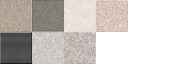
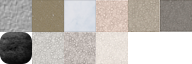
Redid Facility 1 and the artwork for Facility 1 and 2

diff --git a/Turret.js b/Turret.js
@@ -1,66 +1,63 @@
 
 var LaserTurret = me.ObjectEntity.extend({
     init: function(x, y, settings) {
-        
+
         settings.image = "turret_tiles";
         settings.spritewidth = 32;
         settings.spriteheight = 32;
-        
+
         this.parent(x, y, settings);
-        
-        // setTile(x, y, id)'s x, y are not a vector coord of tile but are tile indices
-        me.game.collisionMap.setTile(x / 32, y / 32, me.game.collisionMap.getTileId(0, 0));                
-        
+
         this.addAnimation("west", [1]);
         this.addAnimation("east", [0]);
         this.addAnimation("north", [2]);
         this.addAnimation("south", [3]);
         this.setCurrentAnimation(settings.direction);
-        
+
         var dFactorX = 0, dFactorY = 0;
         switch (settings.direction)
         {
-            case "west":                
+            case "west":
                 dFactorX = -1;
-                dFactorY = 0;                
+                dFactorY = 0;
                 break;
-            case "east":                
+            case "east":
                 dFactorX = 1;
-                dFactorY = 0;                
+                dFactorY = 0;
                 break;
-            case "north":                
+            case "north":
                 dFactorX = 0;
-                dFactorY = -1;                
+                dFactorY = -1;
                 break;
-            case "south":                
+            case "south":
                 dFactorX = 0;
-                dFactorY = 1;                
+                dFactorY = 1;
                 break;
         }
-        
+
         if (settings.speed == null)
             settings.speed = 1500;
         if (settings.damage == null)
             settings.damage = 1;
         if (settings.delay == null)
             settings.delay = fairPercentage() * randomInt(1, 10) + 500;
-        
+
         for (i = 1; me.game.collisionMap.getTile(x + (i * dFactorX * 32), y + (i * dFactorY * 32)) == null; i++)
         {
             var lb = new LaserBeam(
-                        x + (i * dFactorX * 32),
-                        y + (i * dFactorY * 32),
-                        {   // settings            
-                            name : (this.name + "laser_beam" + i),
-                            spritewidth : "32",
-                            spriteheight : "32",
-                            image : "laser_beam",
-                            orientation : 1 - Math.abs(dFactorY),
-                            speed : settings.speed,
-                            damage : settings.damage,
-                            delay : settings.delay
-                        }
-                    );
+                x + (i * dFactorX * 32),
+                y + (i * dFactorY * 32),
+                {   // settings
+                    name : (this.name + "laser_beam" + i),
+                    spritewidth : "32",
+                    spriteheight : "32",
+                    image : "laser_beam",
+                    orientation : 1 - Math.abs(dFactorY),
+                    speed : settings.speed,
+                    damage : settings.damage,
+                    delay : settings.delay
+                }
+                );
             //document.getElementById("debugInfo").innerHTML += lb.name + "<br>";
             me.game.add(lb, 9999999999);
         }
@@ -70,16 +67,16 @@ var LaserTurret = me.ObjectEntity.extend({
 
 
 var LaserBeam = me.ObjectEntity.extend({
-    
+
     isOn : 1,
     pTime : 0,
     damage : 0,
     orientation : 2,
     delay : 0,
     speed : 0,
-    
+
     init : function(x, y, settings) {
-        
+
         this.parent(x, y, settings);
         //document.getElementById("debugInfo").innerHTML += this.name + "<br>";
         this.alive = false;
@@ -89,31 +86,31 @@ var LaserBeam = me.ObjectEntity.extend({
         this.delay = settings.delay;
         this.speed = settings.speed;
         this.orientation = settings.orientation;
-        
+
         this.addAnimation(0, [4, 7]);   // vertical
         this.addAnimation(1, [5, 6]);   // horizontal
         this.addAnimation(2, [8]);  // empty;
-        
-        
+
+
         this.setCurrentAnimation(2);
         //document.getElementById("debugInfo").innerHTML += this.name + " (" + this.GUID + ")<br>";
         this.pTime = me.timer.getTime() + this.delay;
     },
-    
-    update : function() {        
+
+    update : function() {
         // onCollision override...
         if (this.alive && this.pos.x == player.pos.x && this.pos.y == player.pos.y)
         {
             //document.getElementById("debugInfo").innerHTML = "<font color=red>" + this.name + ": " + this.pos.x + " x " + this.pos.y + "<br>player: " + player.pos.x + " x " + player.pos.y + "</font><br>";
             player.setCurrentAnimation("dead");
             me.game.HUD.updateItemValue("stamina", -this.damage);
-            //document.getElementById("debugInfo").innerHTML += this.name + " (" + this.GUID + ")<font color=red>laser</font><br>";
+        //document.getElementById("debugInfo").innerHTML += this.name + " (" + this.GUID + ")<font color=red>laser</font><br>";
         }/*
         else
         {
             document.getElementById("debugInfo").innerHTML = "<font color=blue>" + this.name + "- " + this.pos.x + " x " + this.pos.y + "<br>player: " + player.pos.x + " x " + player.pos.y + "</font><br>";
-        }*/        
-        
+        }*/
+
         //document.getElementById("debugInfo").innerHTML = "<font color=red>" + (me.timer.getTime() - this.pTime) + "</font> -> " + this.speed + "</br>";
 
         if (!this.isOn) {
@@ -137,9 +134,9 @@ var LaserBeam = me.ObjectEntity.extend({
                 this.setCurrentAnimation(this.orientation);
             }
             this.pTime = me.timer.getTime();
-            
+
         }
-        
+
         this.parent(this);
         return true;
     }
@@ -149,68 +146,65 @@ var LaserBeam = me.ObjectEntity.extend({
 
 var AdvancedLaserTurret = me.ObjectEntity.extend({
     init: function(x, y, settings) {
-        
+
         settings.image = "turret_advanced_tiles";
         settings.spritewidth = 32;
         settings.spriteheight = 32;
-        
+
         this.parent(x, y, settings);
-        
-        // setTile(x, y, id)'s x, y are not a vector coord of tile but are tile indices
-        me.game.collisionMap.setTile(x / 32, y / 32, me.game.collisionMap.getTileId(0, 0));                
-        
+
         this.addAnimation("west", [1]);
         this.addAnimation("east", [0]);
         this.addAnimation("north", [2]);
         this.addAnimation("south", [3]);
         this.setCurrentAnimation(settings.direction);
-        
+
         this.laser = [];
         var dFactorX = 0, dFactorY = 0;
         switch (settings.direction)
         {
-            case "west":                
+            case "west":
                 dFactorX = -1;
-                dFactorY = 0;                
+                dFactorY = 0;
                 break;
-            case "east":                
+            case "east":
                 dFactorX = 1;
-                dFactorY = 0;                
+                dFactorY = 0;
                 break;
-            case "north":                
+            case "north":
                 dFactorX = 0;
-                dFactorY = -1;                
+                dFactorY = -1;
                 break;
-            case "south":                
+            case "south":
                 dFactorX = 0;
-                dFactorY = 1;                
+                dFactorY = 1;
                 break;
         }
-        
+
         if (settings.damage == null)
             settings.damage = 2;
-        
+
         this.minX = x;
         this.maxX = x;
         this.minY = y;
         this.maxY = y;
-        
+
         for (i = 1; me.game.collisionMap.getTile(x + (i * dFactorX * 32), y + (i * dFactorY * 32)) == null; i++)
         {
             //document.getElementById("debugInfo").innerHTML += (x + (i * dFactorX * 32)) + " x " + (y + (i * dFactorY * 32)) + "<br>";
             var plb = new PowerfulLaserBeam(
-                    x + (i * dFactorX * 32),
-                    y + (i * dFactorY * 32),
-                    {   // settings            
-                        name : this.name + "powerful_laser_beam" + i,
-                        spritewidth : "32",
-                        spriteheight : "32",
-                        image : "powerful_laser_beam",
-                        orientation : dFactorY,
-                        damage : settings.damage
-                    }
+                x + (i * dFactorX * 32),
+                y + (i * dFactorY * 32),
+                {   // settings
+                    name : this.name + "powerful_laser_beam" + i,
+                    spritewidth : "32",
+                    spriteheight : "32",
+                    image : "powerful_laser_beam",
+                    orientation : dFactorY,
+                    damage : settings.damage
+                }
                 );
-            
+
             if (plb.pos.x < this.minX)
                 this.minX = plb.pos.x;
             else if (plb.pos.x > this.maxX)
@@ -219,21 +213,21 @@ var AdvancedLaserTurret = me.ObjectEntity.extend({
                 this.minY = plb.pos.y;
             else if (plb.pos.y > this.maxY)
                 this.maxY = plb.pos.y;
-                
+
             this.laser.push(plb);
             me.game.add(plb, 99999999999);
-            //document.getElementById("debugInfo").innerHTML += plb.name + "<br>";
+        //document.getElementById("debugInfo").innerHTML += plb.name + "<br>";
         }
         me.game.sort();
-        
+
         this.delay = (settings.delay == null) ? 300 : settings.delay;
         this.alive = false;
         this.lockOn = false;
         this.pTime = 0;
     },
-    
+
     update : function() {
-        
+
         if (this.minX <= player.pos.x && player.pos.x <= this.maxX && this.minY <= player.pos.y && player.pos.y <= this.maxY)
         {
             //document.getElementById("debugInfo").innerHTML = "locked";
@@ -267,15 +261,15 @@ var AdvancedLaserTurret = me.ObjectEntity.extend({
                 else if (!this.alive && me.timer.getTime() > this.pTime)
                     this.lockOn = false;
             }
-            else 
+            else
             {
                 for (i = 0; i < this.laser.length; i++)
-                        this.laser[i].stop();
+                    this.laser[i].stop();
             }
         }
-        
+
         //document.getElementById("debugInfo").innerHTML += "<br>alive ? " + this.alive + "<br>lockOn ? " + this.lockOn;
-        
+
         this.parent(this);
         return true;
     }
@@ -283,30 +277,30 @@ var AdvancedLaserTurret = me.ObjectEntity.extend({
 
 
 var PowerfulLaserBeam = me.ObjectEntity.extend({
-    
+
     orientation : -1,
     damage : 0,
-    
+
     init : function(x, y, settings) {
-        
+
         this.name = settings.name;
         this.spritewidth = settings.spritewidth;
         this.spriteheight = settings.spriteheight;
         this.orientation = settings.orientation;
         this.damage = settings.damage;
-        
-        this.parent(x, y, settings);        
+
+        this.parent(x, y, settings);
         this.collidable = false;
-        
+
         this.addAnimation(0, [4, 7]);   // vertical
         this.addAnimation(1, [5, 6]);   // horizontal
         this.addAnimation(2, [8]);  // empty;
-        
+
         this.orientation = 1 - Math.abs(settings.orientation);
         this.setCurrentAnimation(2);
-        //document.getElementById("debugInfo").innerHTML += this.name + " (" + this.GUID + ")<br>";
+    //document.getElementById("debugInfo").innerHTML += this.name + " (" + this.GUID + ")<br>";
     },
-    
+
     update : function() {
         if (this.collidable && this.pos.x == player.pos.x && this.pos.y == player.pos.y)
         {
@@ -314,17 +308,17 @@ var PowerfulLaserBeam = me.ObjectEntity.extend({
             player.setCurrentAnimation("dead");
             me.game.HUD.updateItemValue("stamina", -this.damage);
         }
-        
+
         this.parent(this);
         return true;
     },
-    
+
     fire : function() {
         //this.alive = ture;
         this.collidable = true;
         this.setCurrentAnimation(this.orientation);
     },
-    
+
     stop : function() {
         //this.alive = false;
         this.collidable = false;
